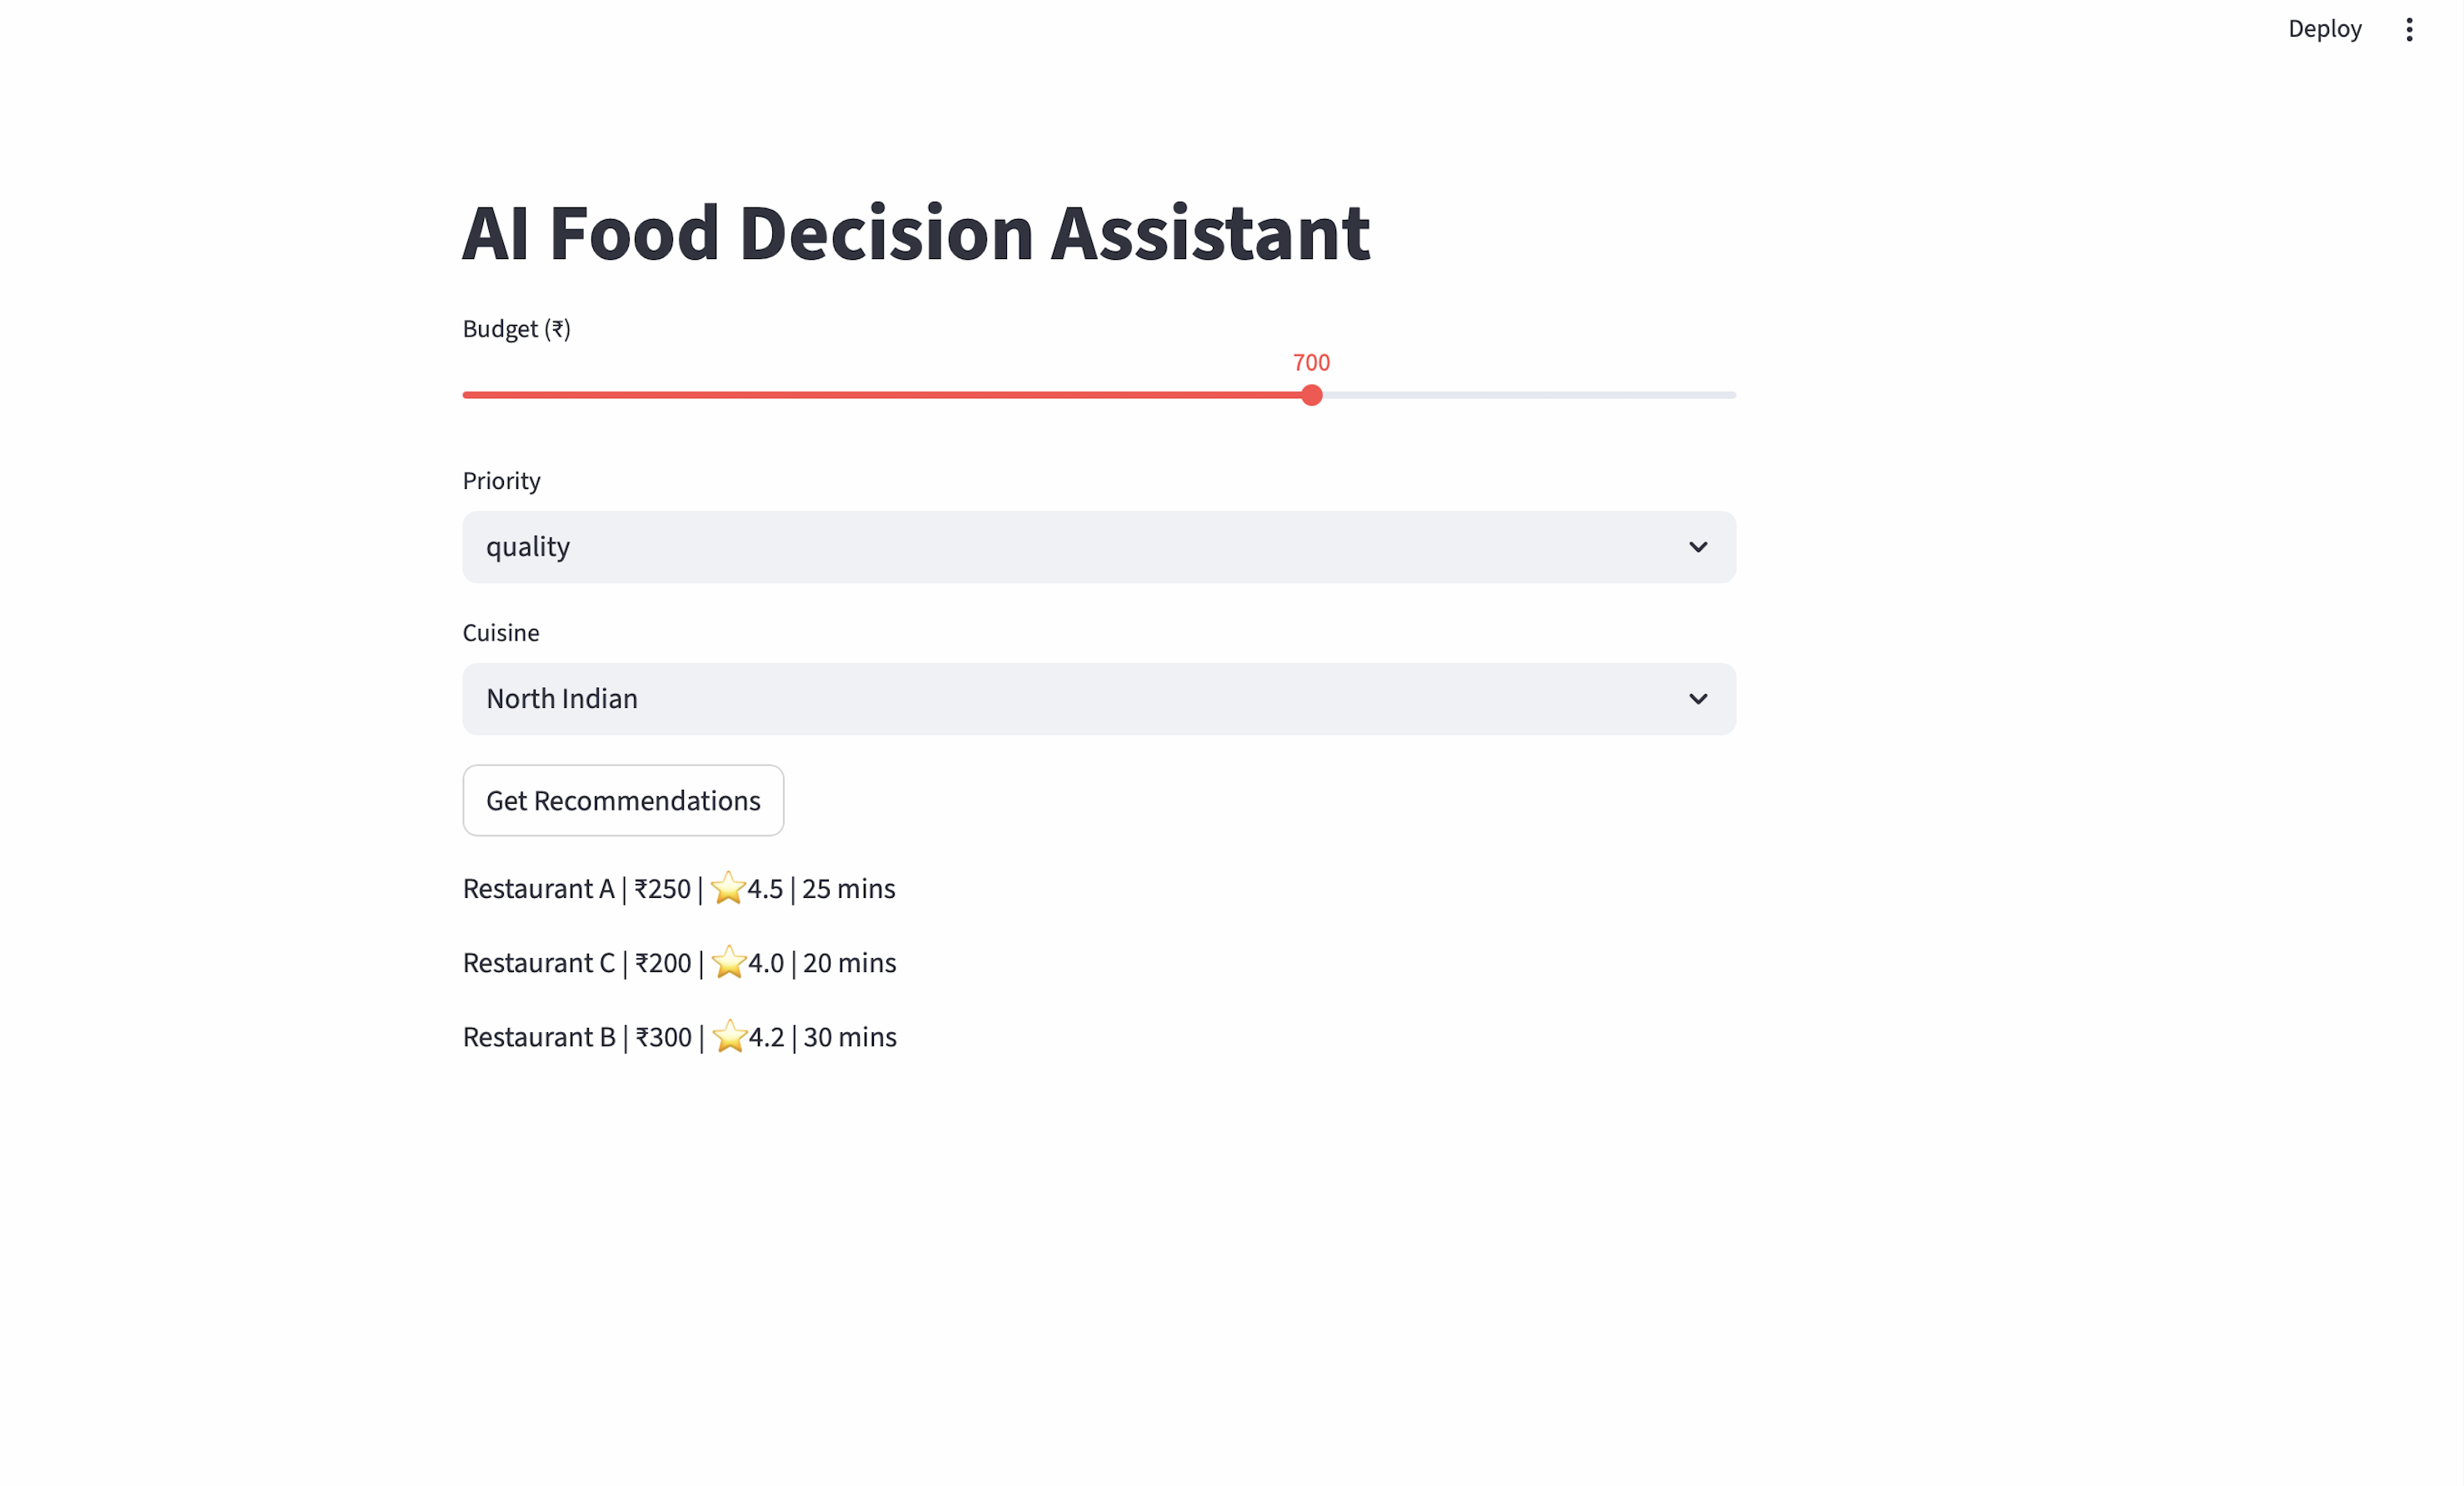
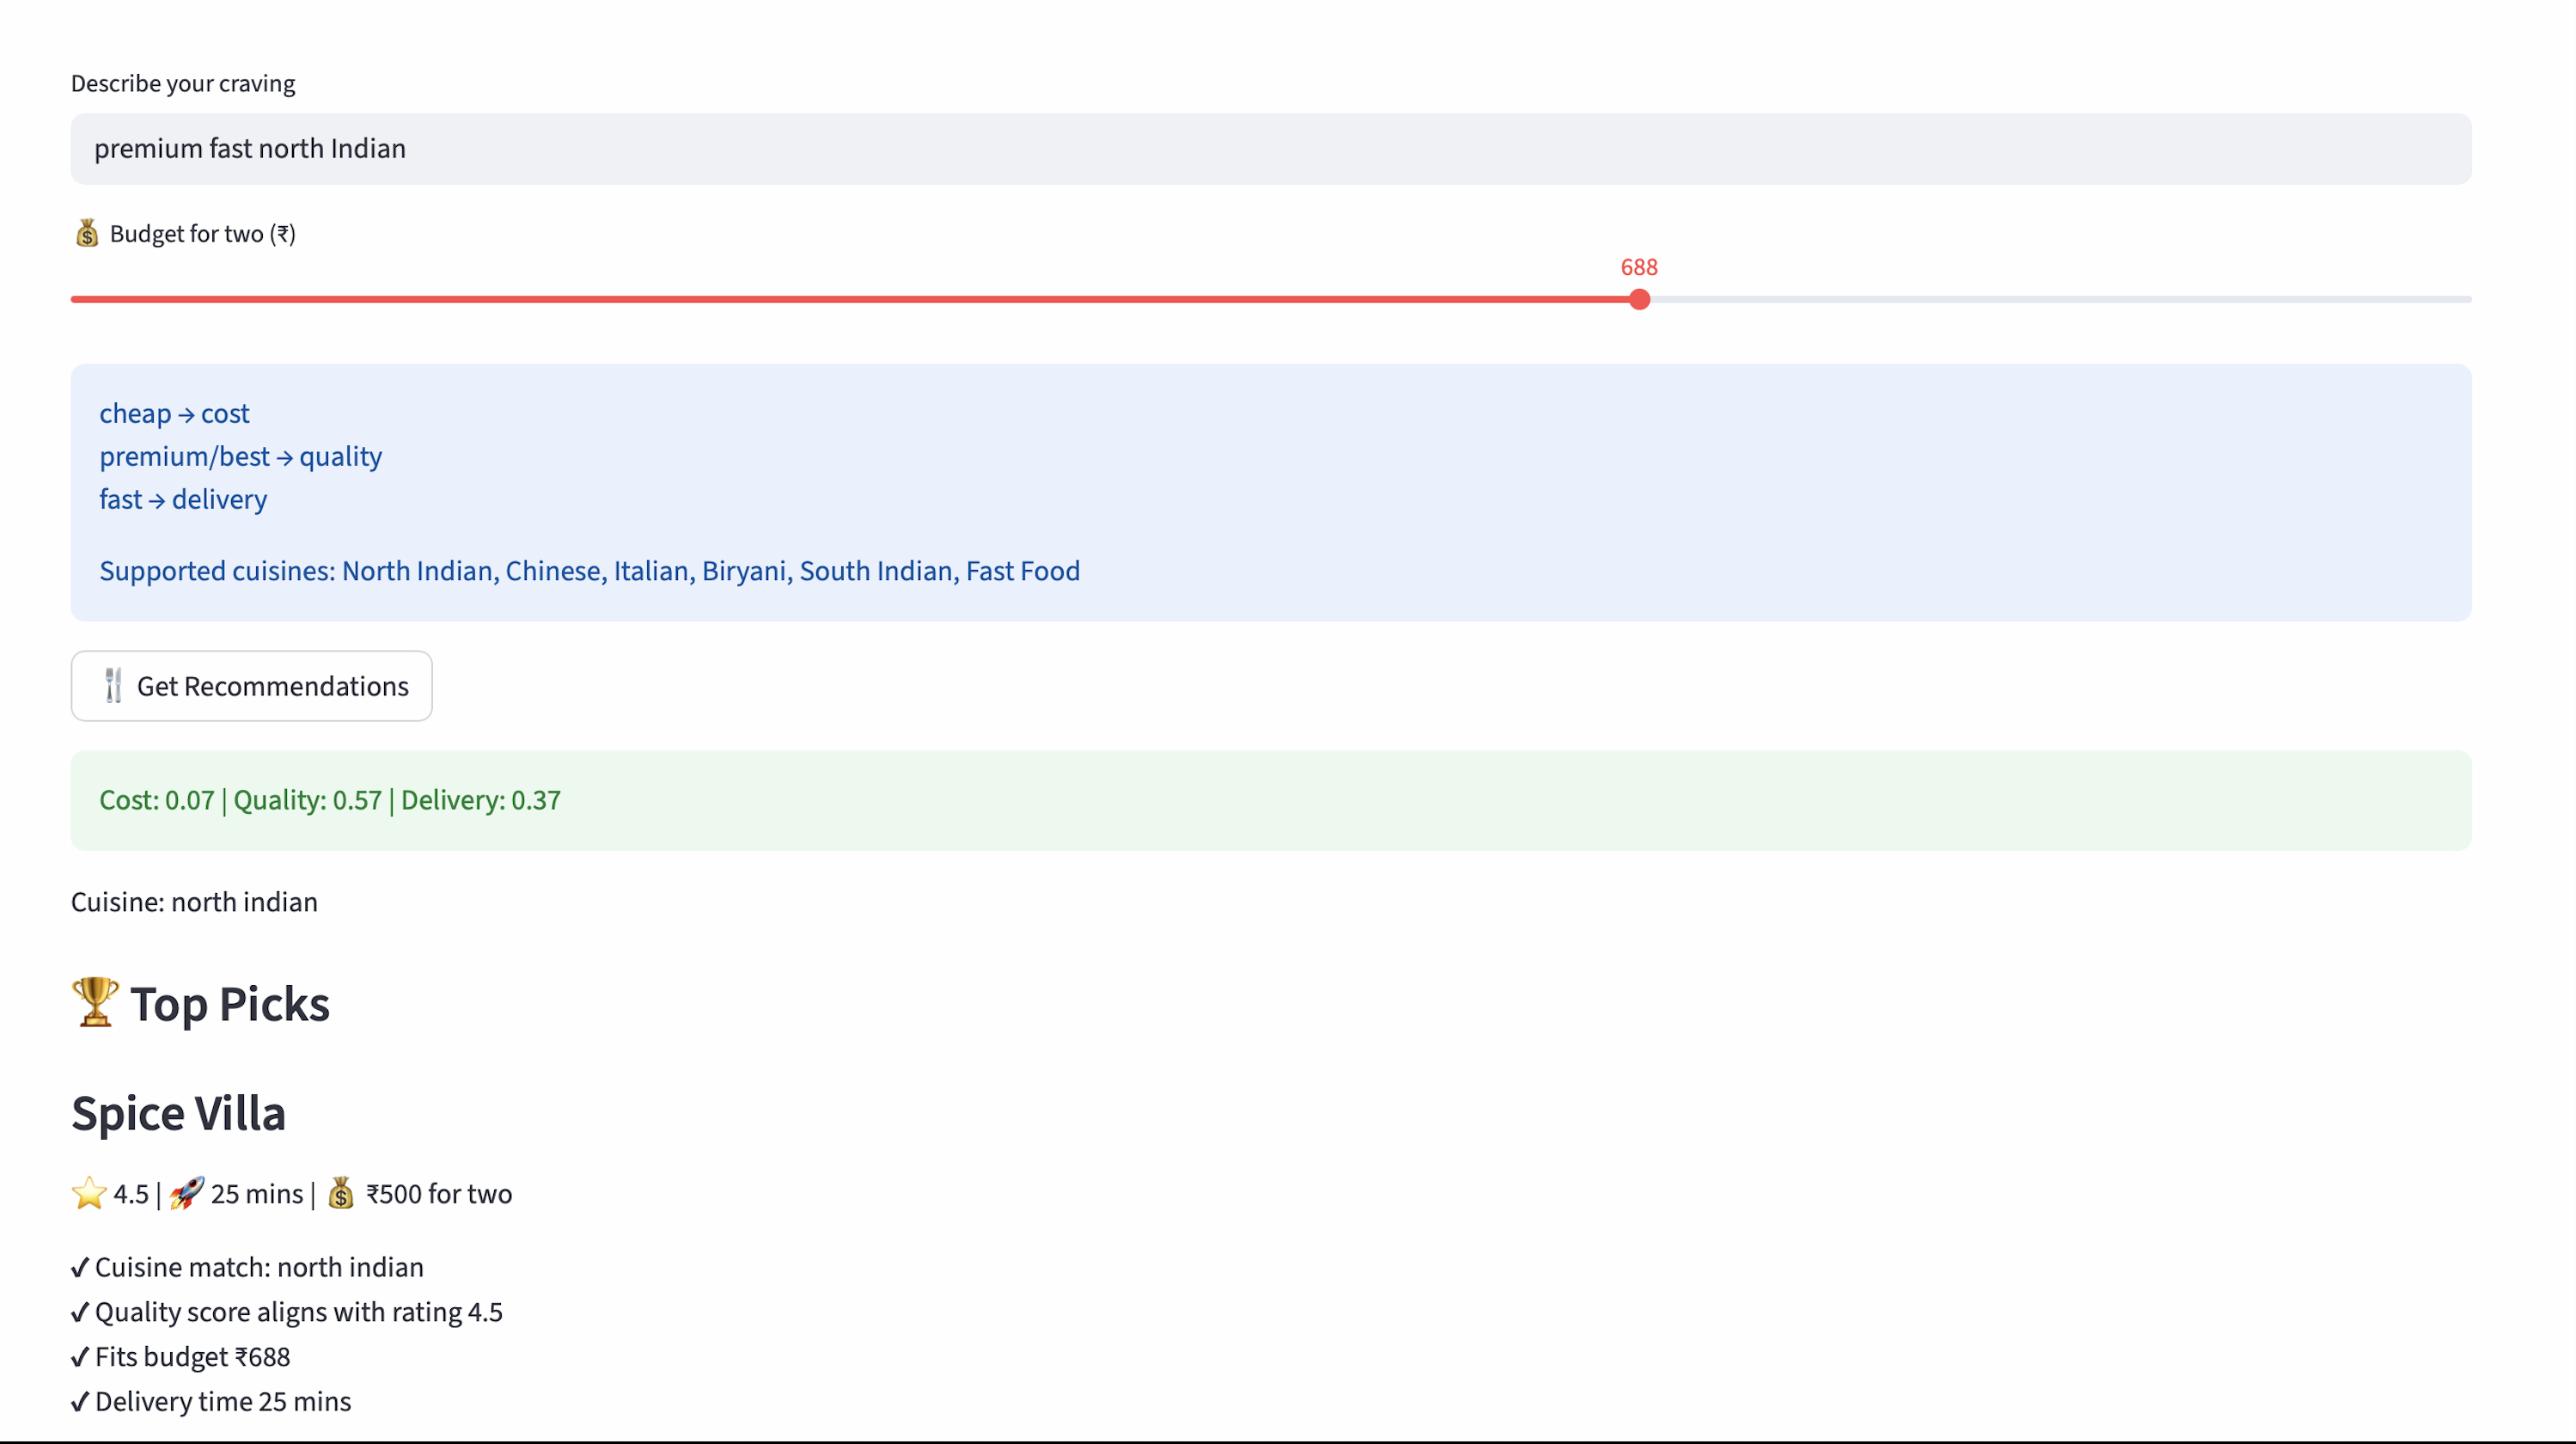
Final MCP-ready AI Food Decision Assistant (LLM + weighted scoring + personalization + UI + OTP)

diff --git a/app.py b/app.py
@@ -1,14 +1,157 @@
 import streamlit as st
-from decision_engine import recommend
+import pandas as pd
+import random
 
-st.title("AI Food Decision Assistant")
+st.set_page_config(page_title="AI Food Decision Assistant", layout="wide")
 
-budget = st.slider("Budget (₹)", 100, 1000, 300)
-priority = st.selectbox("Priority", ["cheap", "fast", "quality"])
-cuisine = st.selectbox("Cuisine", ["North Indian", "Chinese", "Fast Food"])
+# =========================
+# LOGIN (FAKE OTP)
+# =========================
+if "logged_in" not in st.session_state:
+    st.session_state.logged_in = False
 
-if st.button("Get Recommendations"):
-    results = recommend(budget, priority, cuisine)
+if "otp" not in st.session_state:
+    st.session_state.otp = None
 
-    for r in results:
-        st.write(f"{r['name']} | ₹{r['price']} | ⭐{r['rating']} | {r['delivery']} mins")
+if not st.session_state.logged_in:
+    st.title("🔐 Login with Mobile OTP (Demo)")
+
+    phone = st.text_input("Enter Mobile Number")
+
+    if st.button("Send OTP"):
+        if phone:
+            st.session_state.otp = str(random.randint(1000, 9999))
+            st.success(f"Demo OTP: {st.session_state.otp}")
+
+    entered = st.text_input("Enter OTP")
+
+    if st.button("Verify OTP"):
+        if entered == st.session_state.otp:
+            st.session_state.logged_in = True
+            st.success("Login Successful")
+            st.rerun()
+        else:
+            st.error("Wrong OTP")
+
+    st.stop()
+
+# =========================
+# DATA
+# =========================
+data = pd.DataFrame([
+    {"name": "Spice Villa", "price": 500, "rating": 4.5, "time": 25, "cuisine": "north indian"},
+    {"name": "Biryani House", "price": 400, "rating": 4.4, "time": 30, "cuisine": "biryani"},
+    {"name": "South Express", "price": 300, "rating": 4.2, "time": 20, "cuisine": "south indian"},
+    {"name": "Pizza Hub", "price": 500, "rating": 4.3, "time": 25, "cuisine": "italian"},
+    {"name": "Pasta Palace", "price": 650, "rating": 4.6, "time": 30, "cuisine": "italian"},
+    {"name": "Dragon Wok", "price": 350, "rating": 4.1, "time": 20, "cuisine": "chinese"},
+    {"name": "Burger Point", "price": 250, "rating": 4.0, "time": 15, "cuisine": "fast food"},
+])
+
+# =========================
+# DETECT CUISINE
+# =========================
+def detect_cuisine(text):
+    text = text.lower()
+
+    mapping = {
+        "north indian": ["north indian", "punjabi"],
+        "chinese": ["chinese"],
+        "italian": ["italian", "pizza", "pasta"],
+        "biryani": ["biryani"],
+        "south indian": ["dosa", "idli", "south indian"],
+        "fast food": ["burger", "fast"]
+    }
+
+    for cuisine, keywords in mapping.items():
+        for k in keywords:
+            if k in text:
+                return cuisine
+
+    return "any"
+
+# =========================
+# WEIGHTS
+# =========================
+def compute_weights(text, budget):
+    text = text.lower()
+
+    cost, quality, delivery = 0.33, 0.33, 0.33
+
+    if "cheap" in text:
+        cost += 0.4
+    if "premium" in text or "best" in text:
+        quality += 0.4
+    if "fast" in text:
+        delivery += 0.4
+
+    if budget < 300:
+        cost += 0.5
+    elif budget > 600:
+        quality += 0.4
+        cost -= 0.2
+
+    total = cost + quality + delivery
+    return cost/total, quality/total, delivery/total
+
+# =========================
+# SCORE
+# =========================
+def score(df, wc, wq, wd, budget):
+    df = df.copy()
+
+    df["cost_score"] = 1 - (df["price"] / (budget + 1))
+    df["quality_score"] = df["rating"] / 5
+    df["delivery_score"] = 1 - (df["time"] / 60)
+
+    df["final"] = wc*df["cost_score"] + wq*df["quality_score"] + wd*df["delivery_score"]
+
+    return df.sort_values(by="final", ascending=False)
+
+# =========================
+# UI
+# =========================
+st.title("🍽️ AI Food Decision Assistant")
+
+query = st.text_input("Describe your craving", "premium fast italian")
+budget = st.slider("💰 Budget for two (₹)", 100, 1000, 500)
+
+st.info("""
+cheap → cost  
+premium/best → quality  
+fast → delivery  
+
+Supported cuisines: North Indian, Chinese, Italian, Biryani, South Indian, Fast Food
+""")
+
+# =========================
+# RUN
+# =========================
+if st.button("🍴 Get Recommendations"):
+
+    cuisine = detect_cuisine(query)
+    wc, wq, wd = compute_weights(query, budget)
+
+    st.success(f"Cost: {round(wc,2)} | Quality: {round(wq,2)} | Delivery: {round(wd,2)}")
+    st.write(f"Cuisine: {cuisine}")
+
+    filtered = data if cuisine == "any" else data[data["cuisine"] == cuisine]
+
+    if filtered.empty:
+        st.warning("No exact cuisine match → showing all options")
+        filtered = data
+
+    ranked = score(filtered, wc, wq, wd, budget)
+
+    st.subheader("🏆 Top Picks")
+
+    for _, row in ranked.head(3).iterrows():
+        st.markdown(f"### {row['name']}")
+        st.write(f"⭐ {row['rating']} | 🚀 {row['time']} mins | 💰 ₹{row['price']} for two")
+
+        st.write(f"""
+✔ Cuisine match: {row['cuisine']}  
+✔ Quality score aligns with rating {row['rating']}  
+✔ Fits budget ₹{budget}  
+✔ Delivery time {row['time']} mins  
+""")

diff --git a/README.md b/README.md
@@ -3,22 +3,55 @@
 ## Overview
 This project demonstrates an AI-driven decision system that optimizes food ordering based on user constraints such as budget, delivery time, and cuisine preferences.
 
+---
+
+## Key Features
+- Constraint-based filtering (budget, cuisine)
+- Multi-objective optimization (cost, rating, delivery time)
+- Explainable recommendations
+- Feedback loop (like/dislike)
+- Adaptive priority weighting
+
+---
+
 ## Demo
+
 Run locally:
+
+```bash
 streamlit run app.py
 
 ## Screenshot
+
 ![App Screenshot](screenshot.png)
 
-## Key Features
-- Constraint-based decision engine
-- Multi-objective optimization (cost, rating, delivery time)
-- Scalable design for Swiggy MCP API integration
+---
+
+## Why This Matters
+
+- Reduces decision fatigue  
+- Mimics real-world platform decision systems  
+- Demonstrates AI-assisted decision-making  
+- Shows workflow-based intelligence instead of static recommendations  
+
+---
+
+## Tech Stack
+
+- Frontend: Streamlit  
+- Backend: Python  
+- Data: Mock dataset (to be replaced with Swiggy MCP APIs)
+
+---
 
 ## Future Enhancements
-- Integration with Swiggy MCP APIs
-- Learning from user interactions
-- Incorporating causal inference for adaptive recommendations
+
+- Integration with Swiggy MCP APIs  
+- Learning from user interactions  
+- Personalization using user feedback  
+
+---
 
 ## Note
+
 This is a prototype using mock data. Swiggy MCP APIs will be integrated upon access approval.